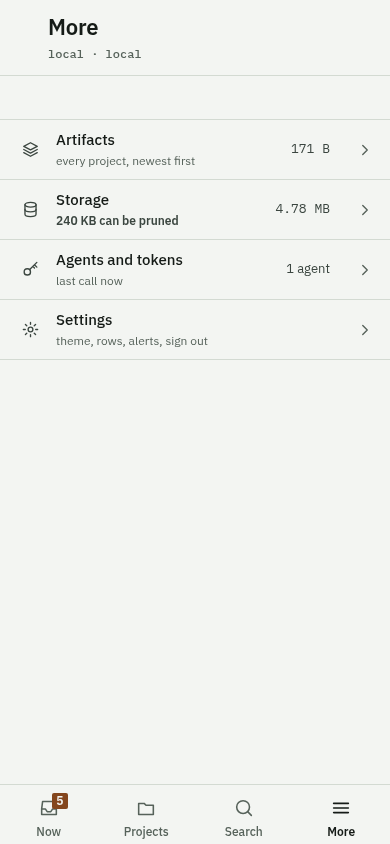
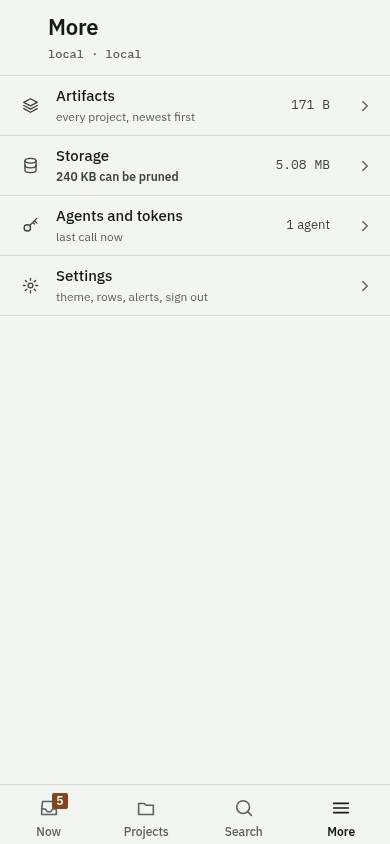
fix(web): trim Settings and the phone More screen to the contract
The desktop Settings control row printed the whole data path. It now
shows the last two segments, and the copy glyph still copies the full
path. Settings carried three helper lines; only the alerts sub, which
explains a consequence nothing else shows, stays.

The phone More screen reserved an empty 44px tools row. The control
row is now emitted on a desktop only, where the frame is reserved.

The facts the dropped lines carried move into labels: the device group
is named This browser, since its settings live only there, and the
Keyboard group label points to ? for the shortcut list.

diff --git a/tests/web.rs b/tests/web.rs
@@ -1529,19 +1529,14 @@ fn desktop_settings_groups_are_device_keyboard_hub() {
         .next()
         .unwrap_or(desktop);
     assert!(
-        desktop.contains("THIS DEVICE")
+        desktop.contains("THIS BROWSER")
             && desktop.contains("KEYBOARD")
             && desktop.contains("THIS HUB"),
-        "desktop Settings groups must be THIS DEVICE, KEYBOARD, THIS HUB"
+        "desktop Settings groups must be THIS BROWSER, KEYBOARD, THIS HUB"
     );
     assert!(
         !desktop.contains("APPEARANCE") && !desktop.contains("ALERTS"),
-        "APPEARANCE and ALERTS must fold into THIS DEVICE"
-    );
-    assert!(
-        desktop.contains("Press ? for the list")
-            || desktop.contains("Press <span class=\"mono\">?</span> for the list"),
-        "single-key shortcuts must carry sub 'Press ? for the list'"
+        "APPEARANCE and ALERTS must fold into THIS BROWSER"
     );
     assert!(
         desktop.contains("Version") && desktop.contains("${esc(versionValue)}"),
@@ -1594,11 +1589,6 @@ fn desktop_settings_groups_are_device_keyboard_hub() {
         !SETTINGS_JS.contains("usedOfCapacity(used, capacity)"),
         "Storage row value must show used only, not used / capacity"
     );
-
-    assert!(
-        desktop.contains("This device's settings are saved in this browser only."),
-        "desktop settings must carry the helper line"
-    );
 }
 
 #[test]
@@ -1622,10 +1612,6 @@ fn desktop_settings_keeps_one_helper_line_and_no_second_path() {
         .split("\n  const form = `")
         .next()
         .unwrap_or(desktop);
-    assert!(
-        desktop.contains("This device's settings are saved in this browser only."),
-        "the desktop settings carries the one helper line"
-    );
     assert!(
         !desktop.contains("settings-footer"),
         "the footer that repeated the path and the node must go"
